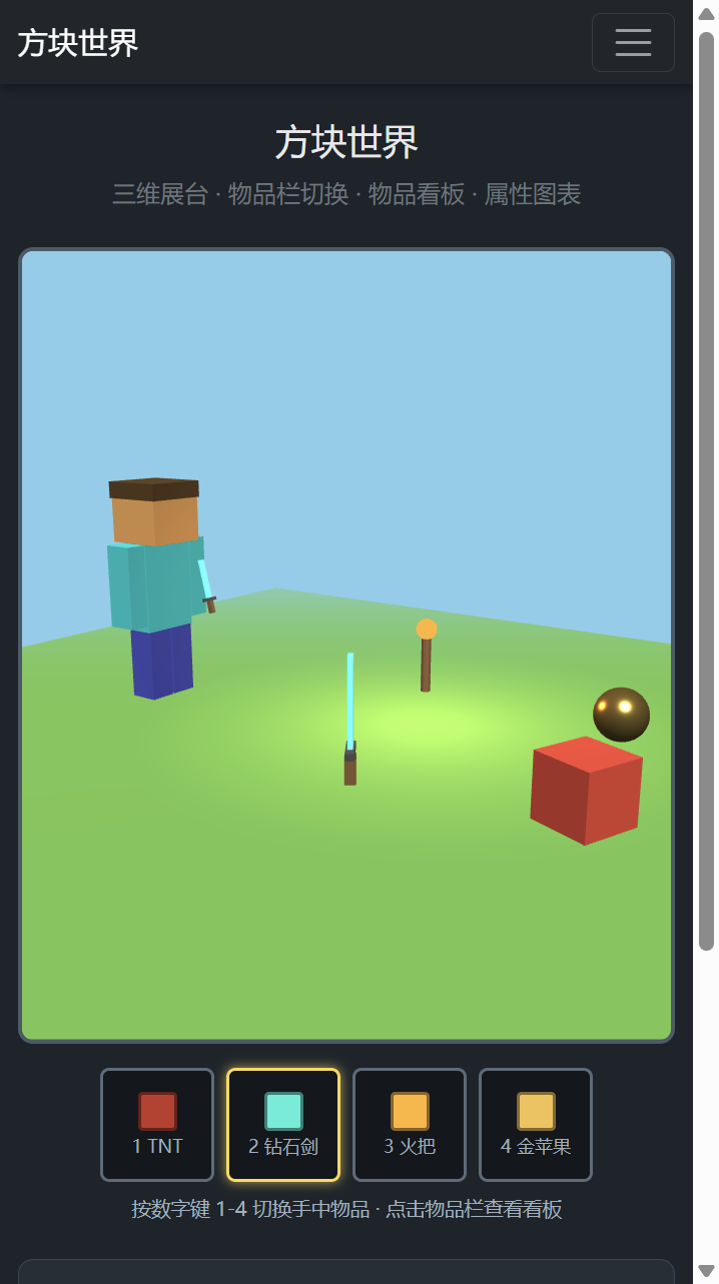
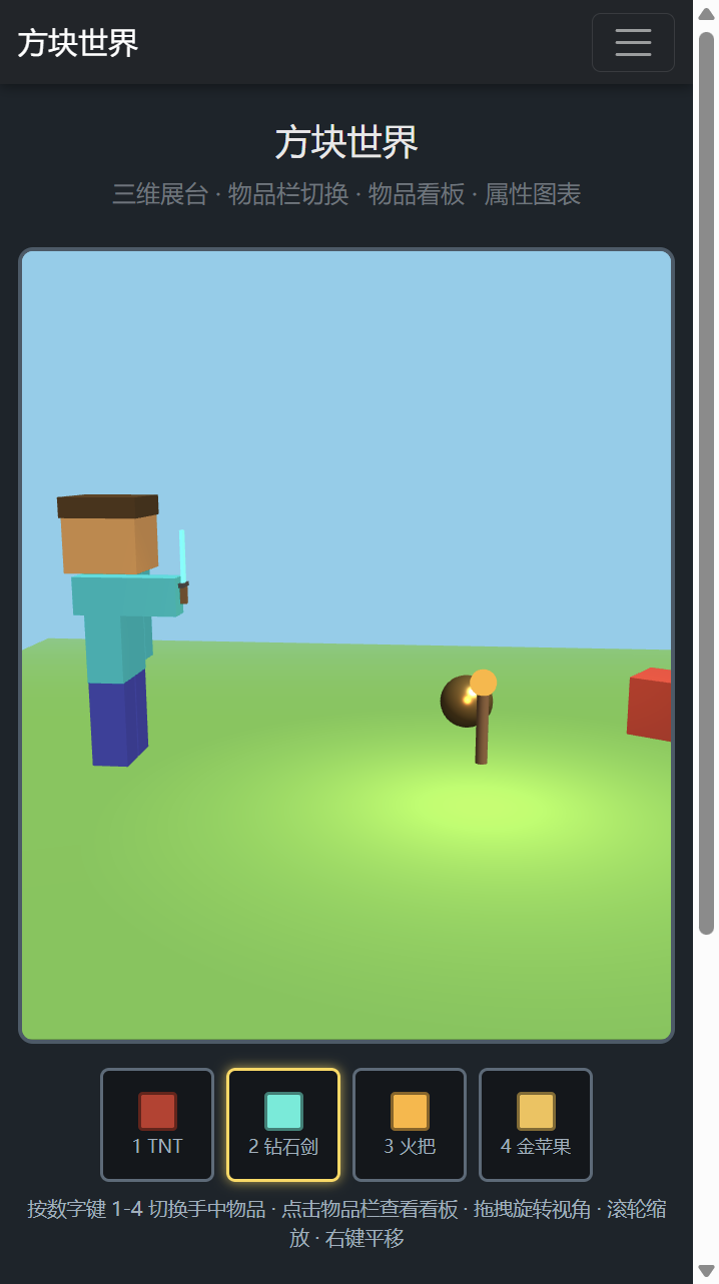
添加三维展台与模型截图

diff --git a/mywork/js/scene.js b/mywork/js/scene.js
@@ -50,8 +50,8 @@ window.MWScene = (() => {
   const makers = { tnt: makeTnt, sword: makeSword, torch: makeTorch, apple: makeApple };
   const grips = {
     tnt: new THREE.Vector3(0, 0, 0),
-    sword: new THREE.Vector3(0, -0.28, 0),
-    torch: new THREE.Vector3(0, 0.15, 0),
+    sword: new THREE.Vector3(0, -0.05, 0),
+    torch: new THREE.Vector3(0, 0.1, 0),
     apple: new THREE.Vector3(0, 0, 0)
   };
 
@@ -67,10 +67,11 @@ window.MWScene = (() => {
     body.position.set(0, 1.8, 0);
 
     const armL = new THREE.Mesh(new THREE.BoxGeometry(0.28, 1.1, 0.4), mat(0x00afaf));
-    armL.position.set(-0.56, 1.85, 0);
+    armL.position.set(0.56, 1.85, 0);
 
     rightHand = new THREE.Group();
-    rightHand.position.set(0.56, 2.2, 0);
+    rightHand.position.set(-0.56, 2.2, 0);
+    rightHand.rotation.x = -Math.PI / 2;
     const armR = new THREE.Mesh(new THREE.BoxGeometry(0.28, 1.1, 0.4), mat(0x00afaf));
     armR.position.y = -0.35;
     rightHand.add(armR);
@@ -121,8 +122,8 @@ window.MWScene = (() => {
     obj.position.copy(grips[item.id]).multiplyScalar(-s);
     obj.scale.setScalar(s);
     wrap.add(obj);
-    wrap.position.set(0, -0.82, 0.45);
-    wrap.rotation.x = -0.25;
+    wrap.position.set(0, -0.95, 0.08);
+    wrap.rotation.x = Math.PI / 2;
     heldItem = wrap;
     rightHand.add(wrap);
   }
@@ -139,7 +140,7 @@ window.MWScene = (() => {
     scene.fog = new THREE.Fog(0x87ceeb, 12, 28);
 
     camera = new THREE.PerspectiveCamera(45, w / h, 0.1, 100);
-    camera.position.set(6.5, 4.2, 9);
+    camera.position.set(0.4, 3.6, 10.2);
 
     renderer = new THREE.WebGLRenderer({ antialias: true });
     renderer.setSize(w, h);
@@ -148,7 +149,7 @@ window.MWScene = (() => {
     container.appendChild(renderer.domElement);
 
     controls = new THREE.OrbitControls(camera, renderer.domElement);
-    controls.target.set(0, 1.4, 0);
+    controls.target.set(-0.6, 1.6, 0);
     controls.enableDamping = true;
     controls.enablePan = true;
     controls.screenSpacePanning = true;

diff --git a/mywork/js/app.js b/mywork/js/app.js
@@ -15,7 +15,9 @@ const renderHotbar = () => {
       .attr('data-id', item.id)
       .attr('aria-label', '物品 ' + (i + 1) + '：' + item.name)
       .toggleClass('active', i === current);
-    slot.append($('<span class="mw-icon"></span>').css('background', item.color));
+    slot.append($('<img class="mw-icon" alt="">')
+      .attr('src', 'img/' + item.id + '.png')
+      .attr('aria-hidden', 'true'));
     slot.append($('<span class="mw-slot-name"></span>').text((i + 1) + ' ' + item.name));
     $('#hotbar').append(slot);
   });

diff --git a/mywork/css/mywork.css b/mywork/css/mywork.css
@@ -81,10 +81,9 @@ body {
 }
 
 .mw-icon {
-  width: 26px;
-  height: 26px;
-  border: 2px solid rgba(0, 0, 0, .45);
-  border-radius: 3px;
+  width: 34px;
+  height: 34px;
+  object-fit: contain;
 }
 
 .mw-slot-name {
